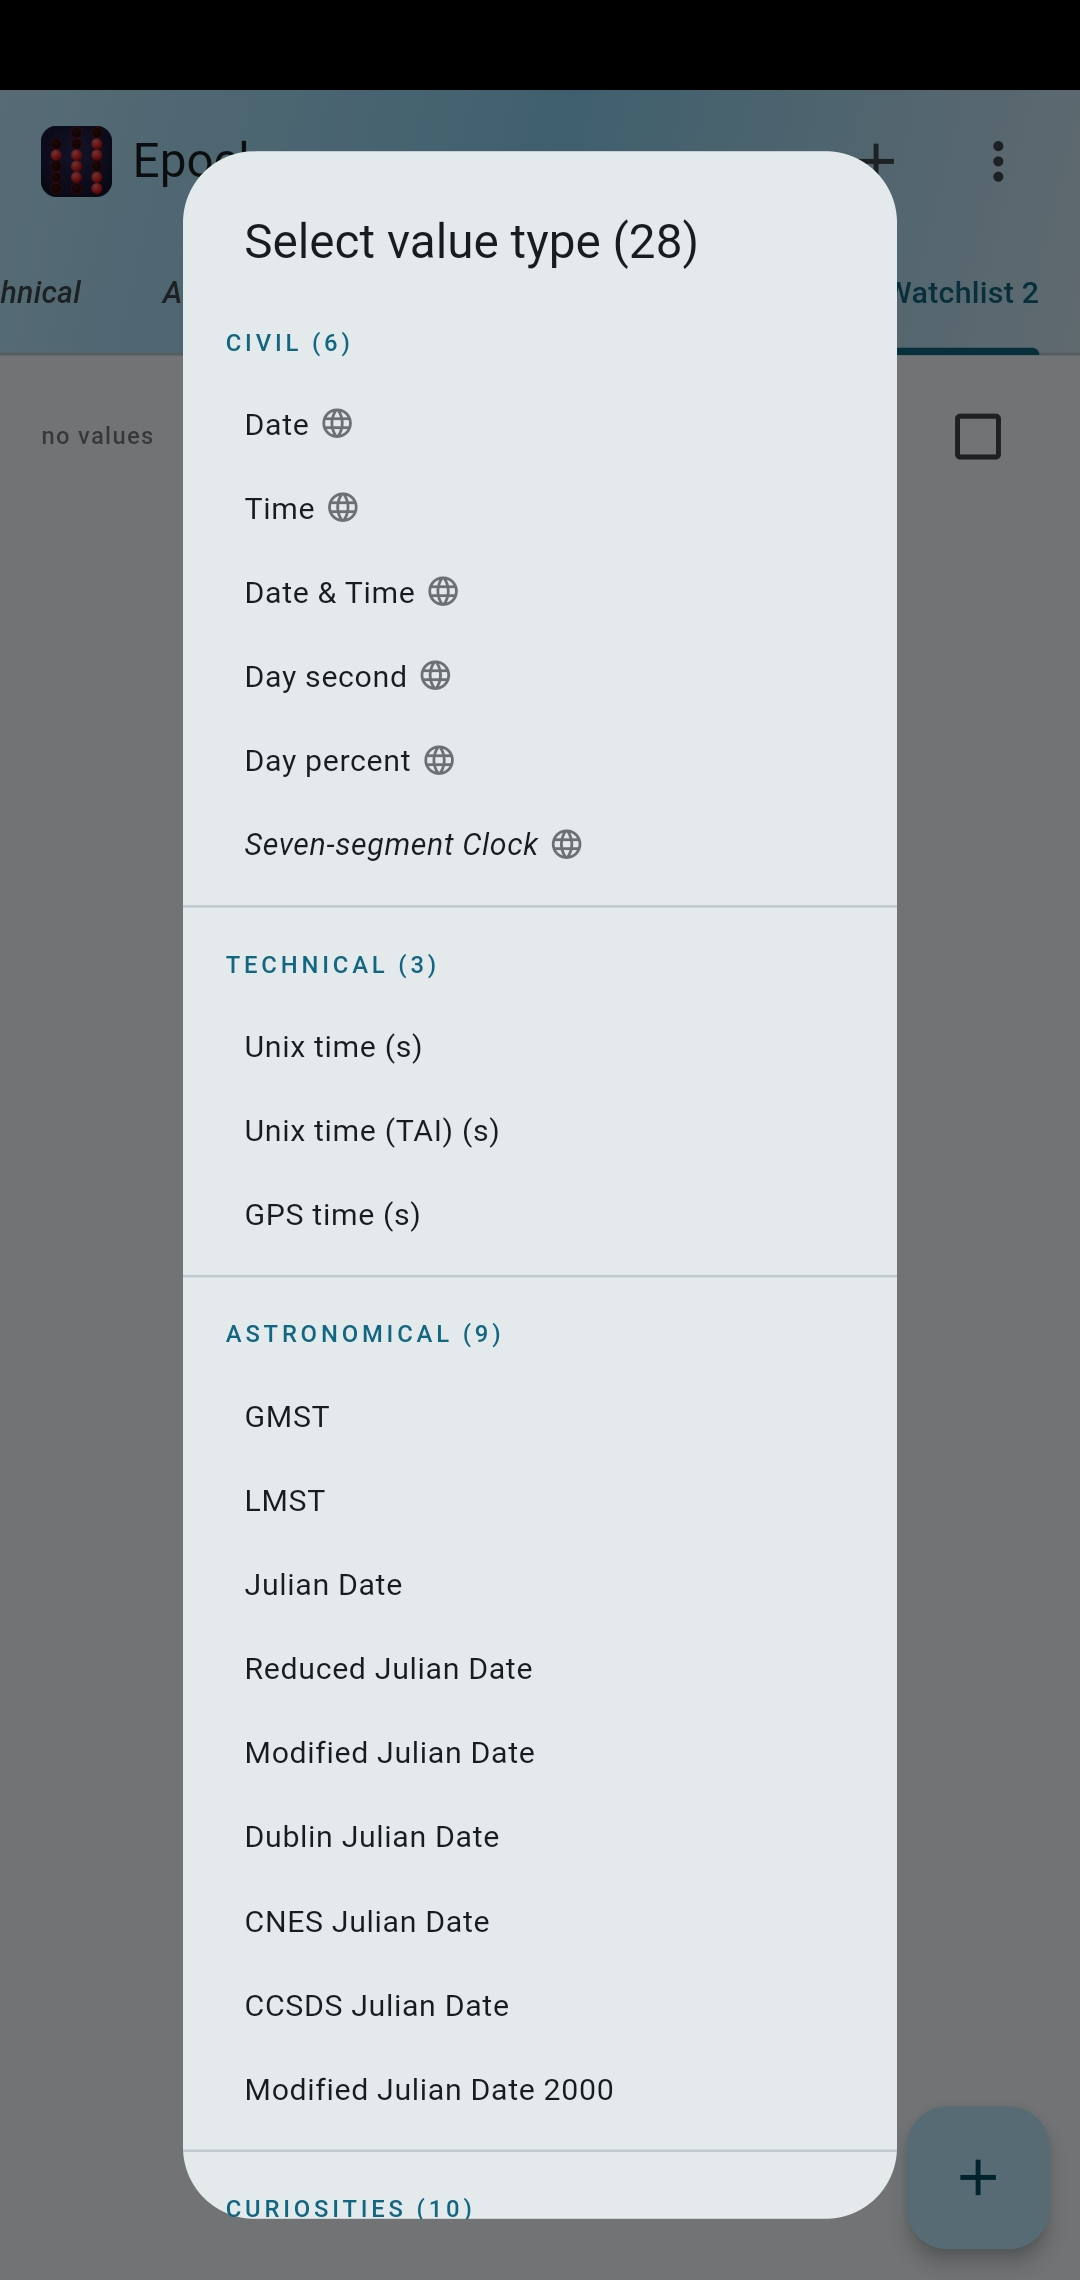
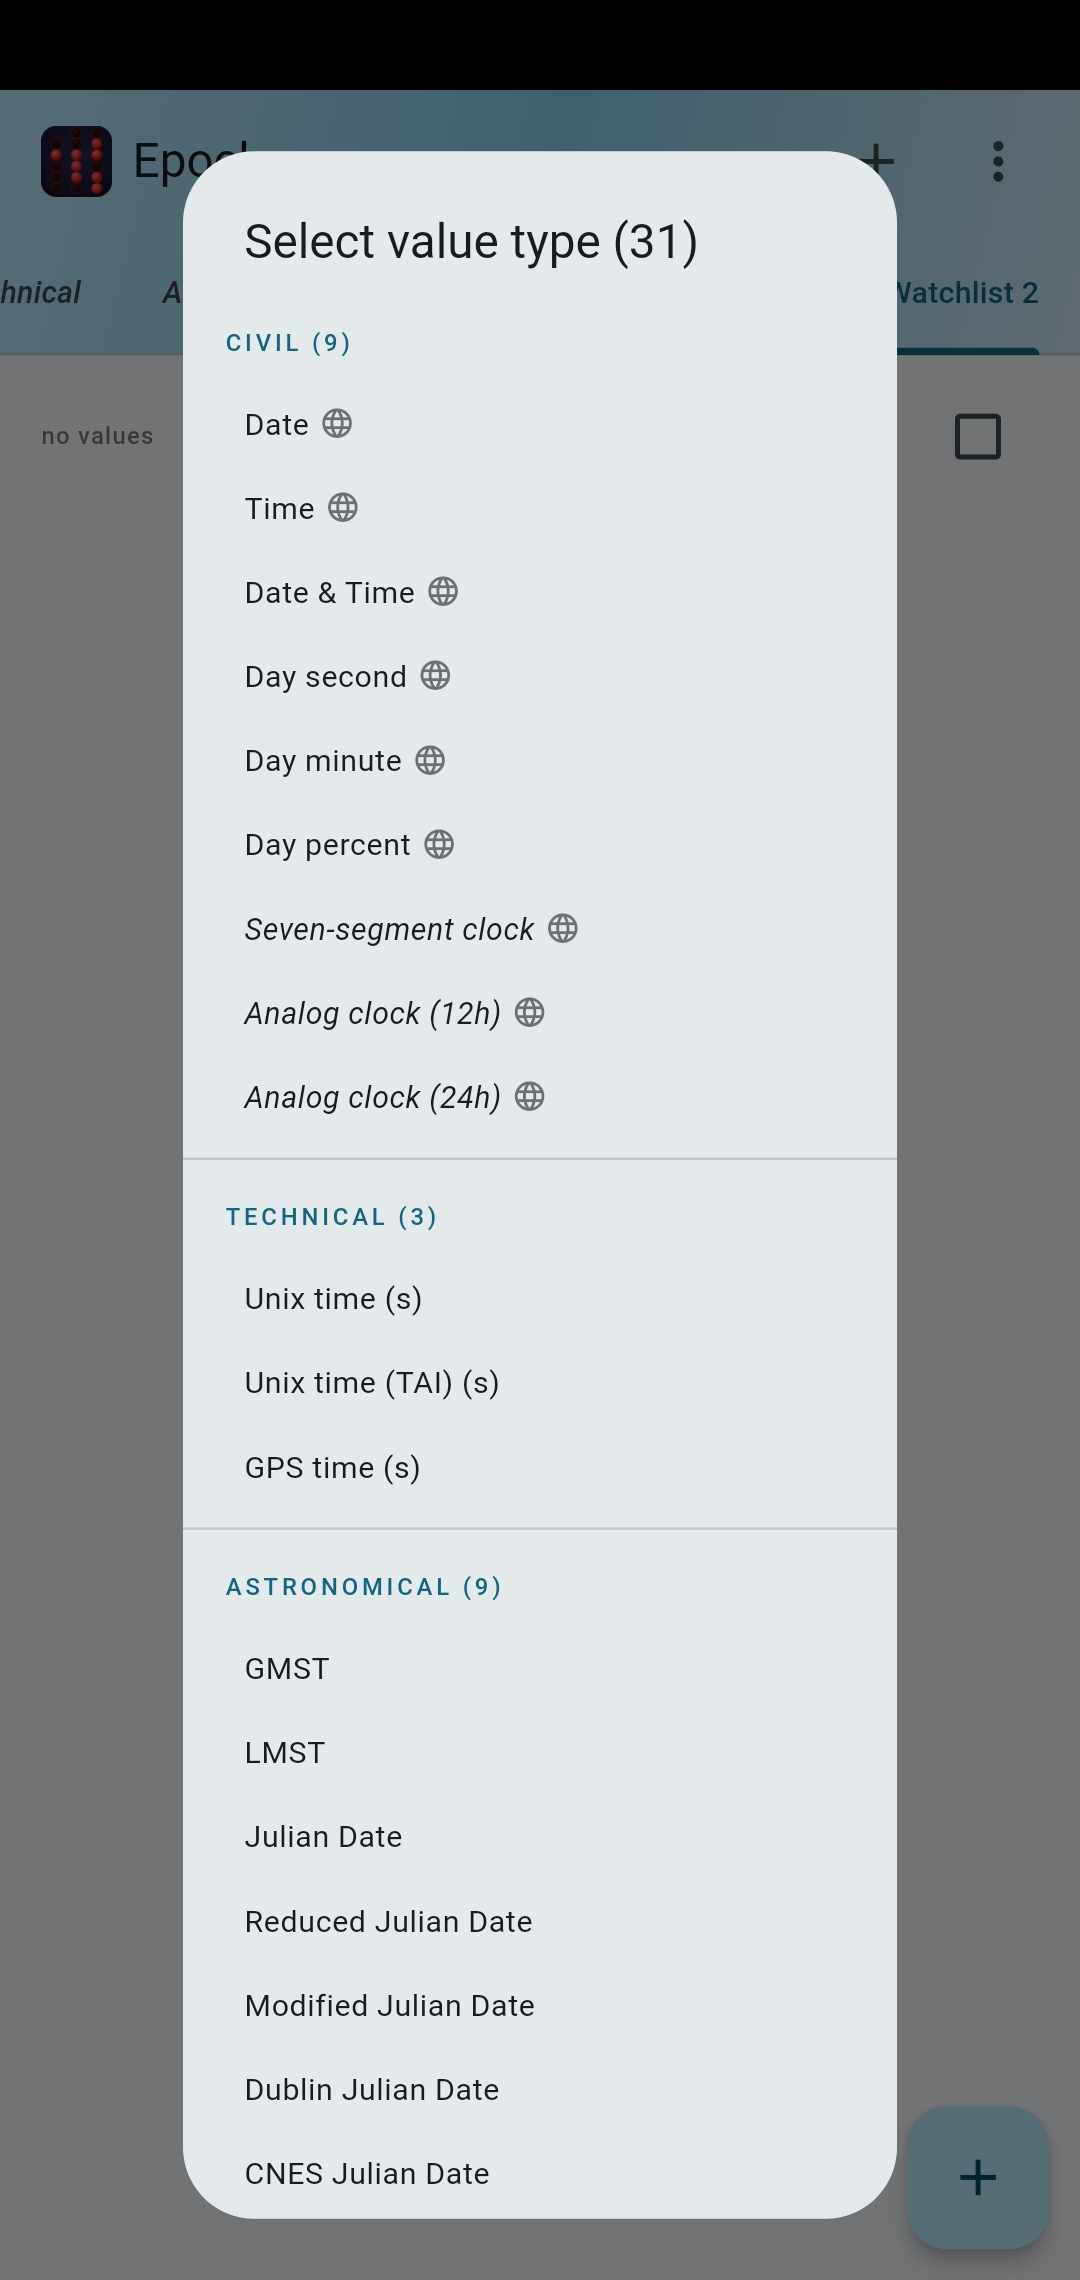
Release 1.7.0

diff --git a/CHANGELOG.md b/CHANGELOG.md
@@ -2,6 +2,10 @@
 
 ## [Unreleased]
 
+---
+
+## [1.7.0] - 2026-11-17
+
 ### Added
 - new value types: day minute and two graphical analog clocks (12 or 24-hour face), all with seconds optional
 - Time Shift: allows to specify the time zone (e. g. Lord Howe, saves you the trouble of doing the math in your head
